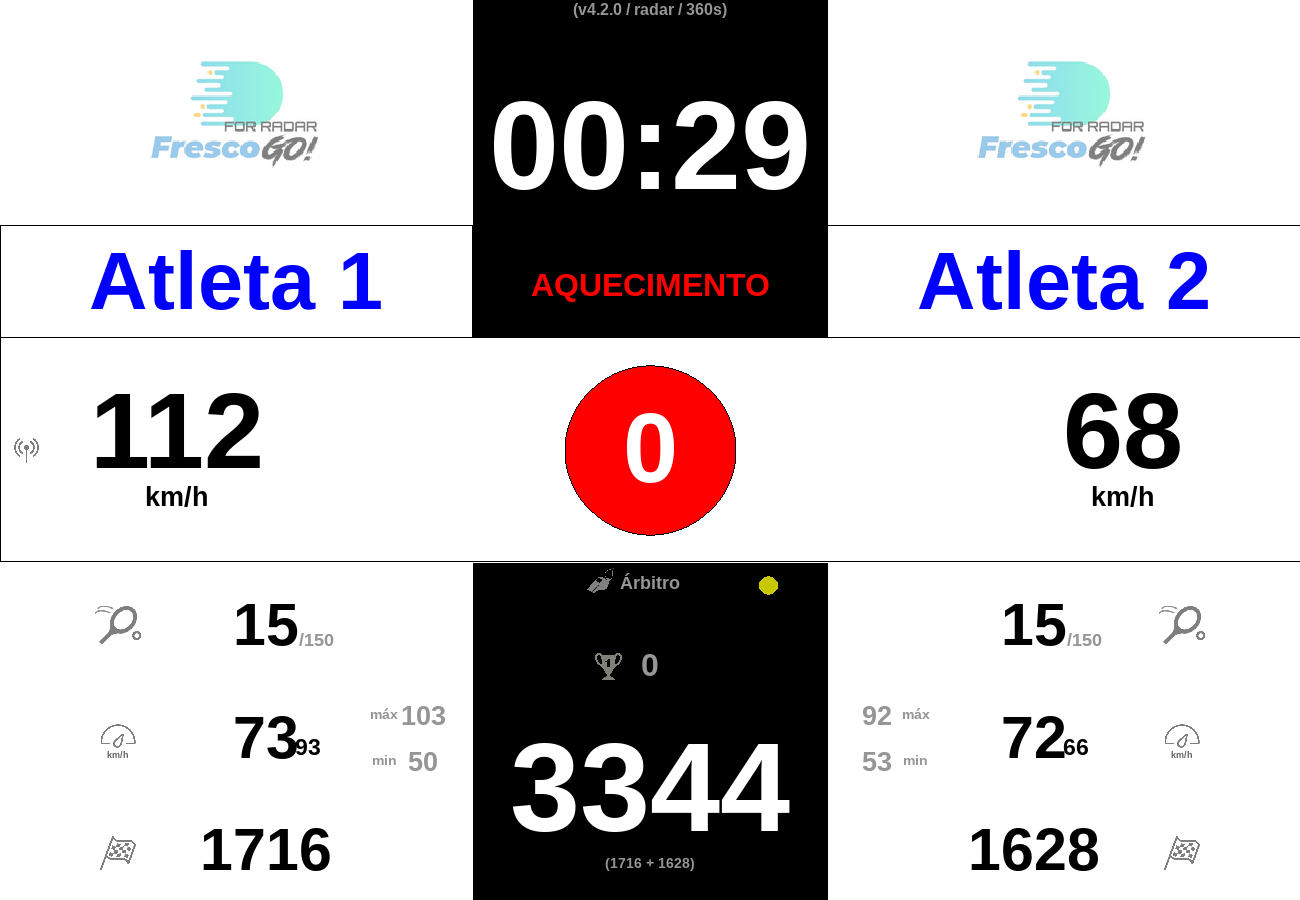
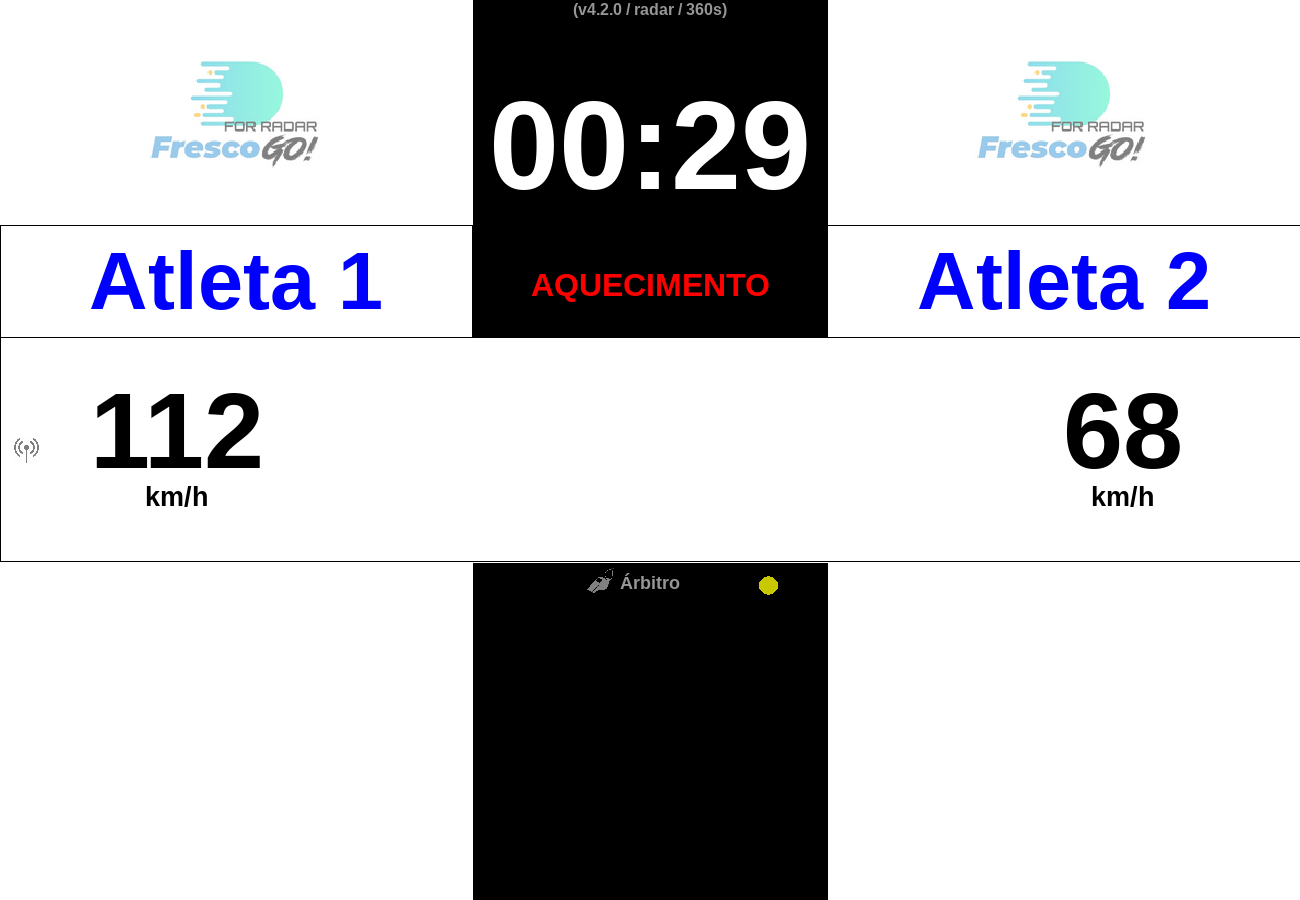
Esquenta: the serve hit counts, Leitor emits to its parent; new references of the warm-up (#32)
A plain emit inside the task Leitor stayed in it: the hits now go to the
parent with emit @:parent. The warning and the end of a warm-up come one
frame earlier, since its time is read fresh. The screen of the warm-up
has only the speeds and the time. All the tests pass.

Claude-Session: https://claude.ai/code/session_011eECoitGg7fJwfZh8JDNnR

diff --git a/.claude/plans/TODO.md b/.claude/plans/TODO.md
@@ -48,7 +48,7 @@ reused (rule of 2026-11-18). The older identifiers (`A.5`, `B.11`, `C.3`,
 | #29 | The rules of `IDIOMS.md` applied to the port (author: "ajeite os idioms"): `await` with no parentheses, predicates of more than one term in parentheses, the filter `e.ctrl` in the pattern of the loop of the global keys, `ifs` in the radar | done on 2026-11-26; all the tests pass | `await X * 1ms` is `(await X) * 1ms`: the time goes in a `val` first (found by the tests); no `loop _ in`, no `emit(...)` in the port; the named small functions stay functions |  |
 | #30 | Excerpt, idiomatic: `frescogo.atm:446`, the global keys with the filter `e.ctrl` in the pattern | shown on 2026-11-26; the author agreed (2026-11-27), with two changes: the loose globals (`AUTO`, `AUTO_ULTIMA`, `INV`, `ZER`, `ONE`, `MICROS`) go to a table `G`; the `match` gives `:nada` in its `else`, and `jogo_calc()` runs only when it is not `:nada`. done on 2026-11-27; all the tests pass | |  |
 | #31 | Excerpt, bad: `radar.atm:91`, the state of the filter in vectors with constant indices, the side kept inverted, the results as magic numbers, the digits parsed by hand | shown on 2026-11-26; the author agreed (2026-11-27) with the fix: `R` = [leituras, proximo, t, kmh], a window of readings with `iter.all`/`iter.max`, the results `:silencio`, `:duvida`, `:golpe [jog=, kmh=]`, `tonumber` over the packet as a string, `string.format`. Done on 2026-11-27; all the tests pass | `tonumber("0740")` is 480 (octal): the digits are summed by a fold, as the original does, so a corrupt packet gives the same number as there (found by the tests) |  |
-| #32 | The warm-up as its own task `Esquenta`, apart from the presentation: the serve, then the hits until `tempos.esquenta` from the serve, with no falls; only the speeds and the time on the screen, no points, no report, no record (author, 2026-11-27: "esquenta só velocidade e tempo, sem recorde"). `J.esquenta` is gone; `G.modo` tells the screen which one runs; the reader of the radar is a task `Leitor`, shared | done on 2026-11-27, compiled, not tested | by the session: no undo of the serve in a warm-up (there is no sequence to undo); CTRL-S during a warm-up ends it, a second CTRL-S does nothing. The oracle has no warm-up (`09-esquenta` removed) | |
+| #32 | The warm-up as its own task `Esquenta`, apart from the presentation: the serve, then the hits until `tempos.esquenta` from the serve, with no falls; only the speeds and the time on the screen, no points, no report, no record (author, 2026-11-27: "esquenta só velocidade e tempo, sem recorde"). `J.esquenta` is gone; `G.modo` tells the screen which one runs; the reader of the radar is a task `Leitor`, shared | done on 2026-11-27; all the tests pass (the screen of the warm-up and its output are new references) | by the session: the warning of 30 s and the end of a warm-up come one frame (16 ms) earlier, since the warm-up reads its time fresh; a hit emitted by the task `Leitor` goes to its parent with `emit @:parent` (a plain `emit` stays inside the task); no undo of the serve in a warm-up (there is no sequence to undo); CTRL-S during a warm-up ends it, a second CTRL-S does nothing. The oracle has no warm-up (`09-esquenta` removed) | |
 | #22 | The operation of v4.1.0 (its keys) is written in `PORT.md`; the `README.md` of the root, which describes 5.x, was not touched | by the session, to be confirmed | done on 2026-11-20. To decide: whether `README.md` becomes the text of v4.1.0 |  |
 
 ## The expressive version (#14)
